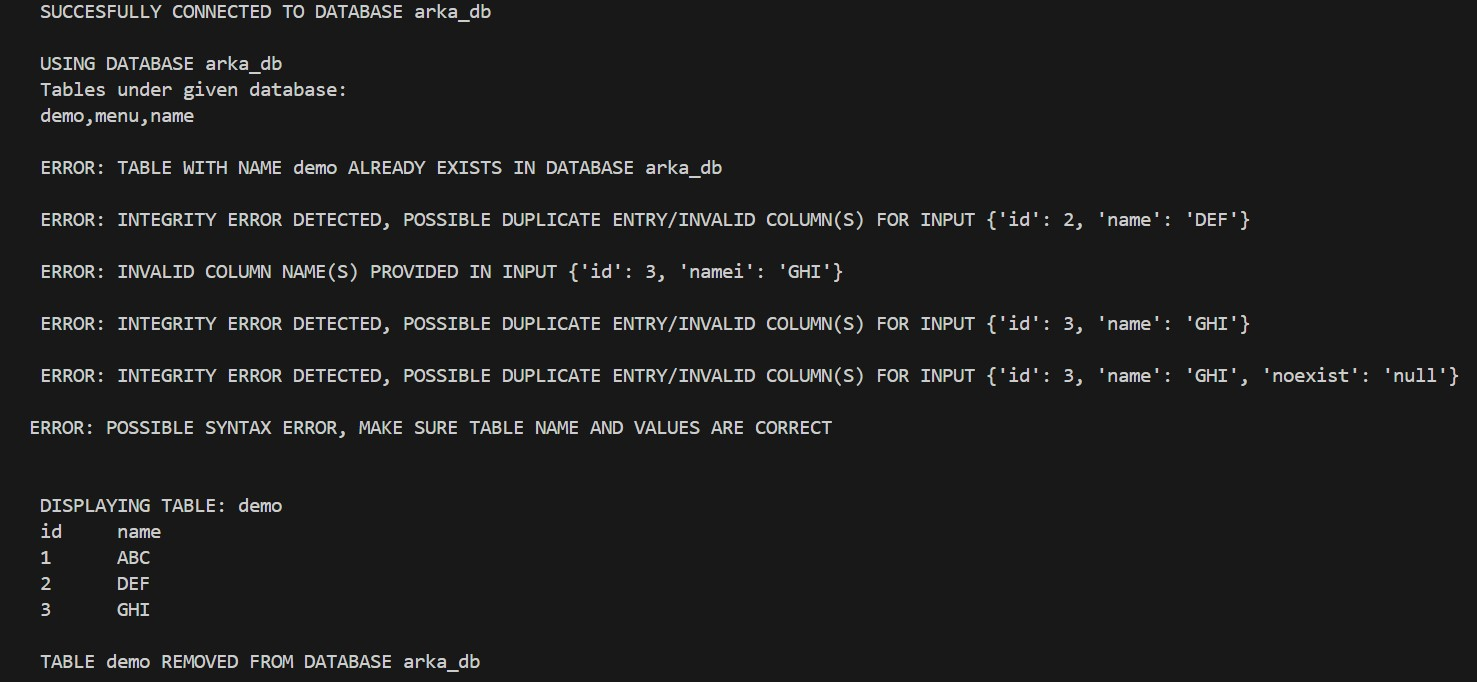
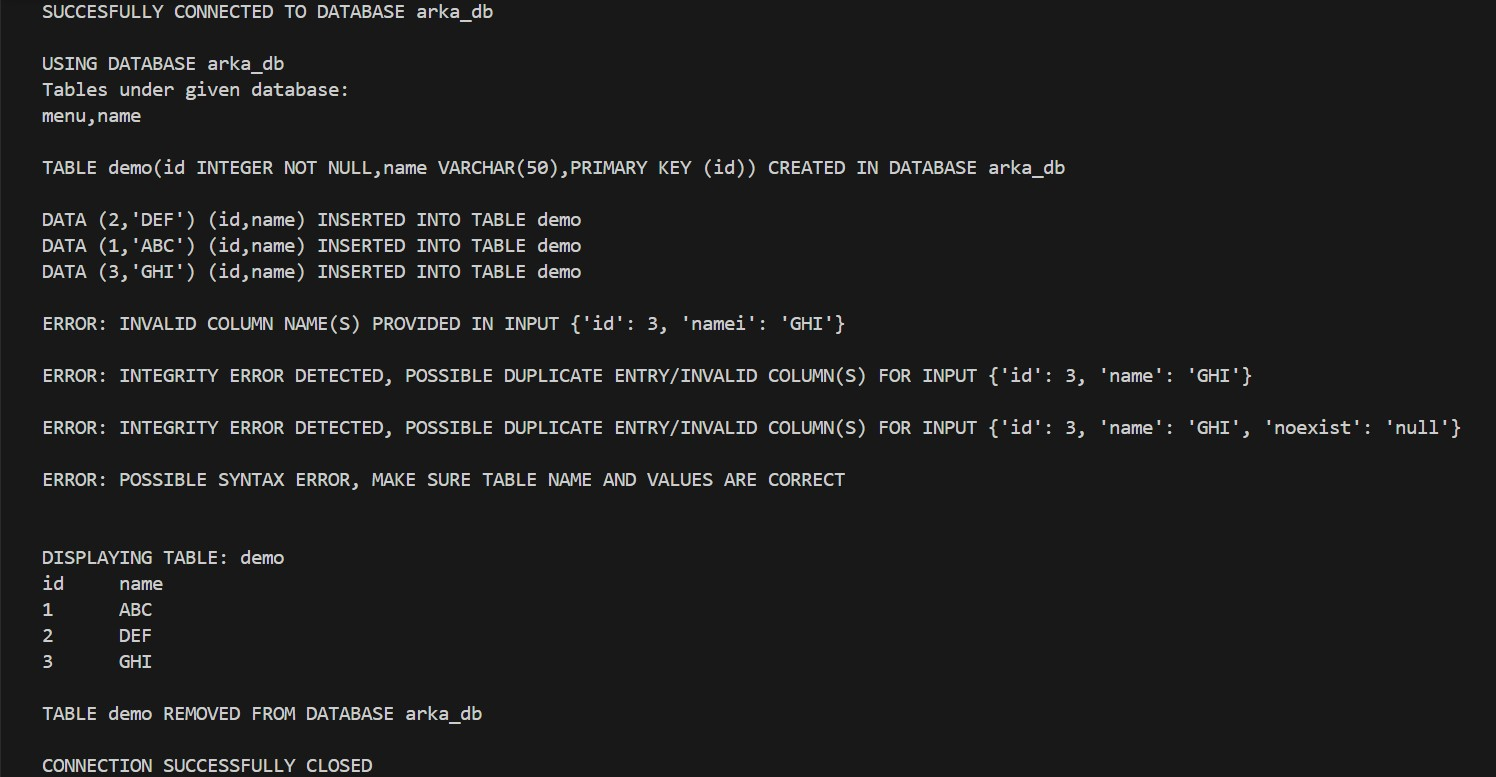
Added method to close connection, fixed comments and prints

diff --git a/main.py b/main.py
@@ -3,52 +3,59 @@
 # in a new config.ini file or follow instructions below for hard-coded initials
 
 import mysql.connector
-# import configparser
+import configparser
 
 class Pseudo:
-    """Class for executing basic CRUD Operations"""
 
     # Use this constructor for config file input, remove if not to be used
-    # def __init__(self):
-    #     """Class for executing basic CRUD operations"""
+    def __init__(self):
+        """
+        Class for executing basic CRUD Operations by initializing a database 
+        connection and cursor for CRUD operations
+        """
 
-    #     config = configparser.ConfigParser()
-    #     config.read("config.ini")
+        config = configparser.ConfigParser()
+        config.read("config.ini")
 
-    #     self.database = config["mysql"]["database"]
+        self.database = config["mysql"]["database"]
 
-    #     try:
-    #         self.connection = mysql.connector.connect(
-    #             host = config["mysql"]["host"],
-    #             port = config["mysql"]["port"],
-    #             user = config["mysql"]["user"],
-    #             password = config["mysql"]["password"],
-    #             database = self.database
-    #         )
-
-    #         print(f" SUCCESFULLY CONNECTED TO DATABASE {self.database}\n")
-    #         self.cursor = self.connection.cursor()
-
-    #     except mysql.connector.errors.ProgrammingError:
-    #         raise Exception("ERROR: INVALID PARAMETERS PROVIDED, Make Sure correct parameters are given")
-
-    # # Use this constructor for hard-coded intials, remove if not to be used
-    def __init__(self,host,port,usr,pswd,db):
-        self.database = db      
-        
         try:
             self.connection = mysql.connector.connect(
-                host = host,
-                port = port,
-                user = usr,
-                password = pswd,
+                host = config["mysql"]["host"],
+                port = config["mysql"]["port"],
+                user = config["mysql"]["user"],
+                password = config["mysql"]["password"],
                 database = self.database
             )
 
             print(f" SUCCESFULLY CONNECTED TO DATABASE {self.database}\n")
             self.cursor = self.connection.cursor()
+
         except mysql.connector.errors.ProgrammingError:
             raise Exception("ERROR: INVALID PARAMETERS PROVIDED, Make Sure correct parameters are given")
+
+    # # # Use this constructor for hard-coded intials, remove if not to be used
+    # def __init__(self,host: str,port: int,usr: str,pswd: str,db: str):
+    #     """
+    #     Class for executing basic CRUD Operations by
+    #     initializing a database connection and cursor for CRUD operations
+    #     """
+
+    #     self.database = db      
+        
+    #     try:
+    #         self.connection = mysql.connector.connect(
+    #             host = host,
+    #             port = port,
+    #             user = usr,
+    #             password = pswd,
+    #             database = self.database
+    #         )
+
+    #         print(f" SUCCESFULLY CONNECTED TO DATABASE {self.database}\n")
+    #         self.cursor = self.connection.cursor()
+    #     except mysql.connector.errors.ProgrammingError:
+    #         raise Exception("ERROR: INVALID PARAMETERS PROVIDED, Make Sure correct parameters are given")
 
     def show_table_names(self):
         """Get all table names in given database"""
@@ -142,7 +149,7 @@ class Pseudo:
         except KeyError:
             print(f" ERROR: INVALID COLUMN NAME(S) PROVIDED IN INPUT {value}")
         except mysql.connector.errors.ProgrammingError:
-            print(f"ERROR: POSSIBLE SYNTAX ERROR, MAKE SURE TABLE NAME AND VALUES ARE CORRECT")
+            print(f" ERROR: POSSIBLE SYNTAX ERROR, MAKE SURE TABLE NAME AND VALUES ARE CORRECT")
         print()
 
     def get(self, table: str):
@@ -161,11 +168,6 @@ class Pseudo:
 
         print()
 
-    # NOTE: FACING REFERENCE ERROR HERE
-    # def __del__(self):
-    #     self.cursor.close()
-    #     self.connection.close()
-
     def custom_query(self,query: str):
         """Runs SQL query"""
         try:
@@ -175,12 +177,19 @@ class Pseudo:
         except:
             print("ERROR: INVALID QUERY")
 
+    def close(self):
+        """Terminates Database Connection"""
+
+        if self.cursor: self.cursor.close();
+        if self.connection: self.connection.close();
+        print(" CONNECTION SUCCESSFULLY CLOSED")
+
 if __name__ == "__main__":
     #Creating a new object, which sets a connection to a specified database
 
     #USE THIS IF USING HARD-CODED CREDENTIALS
     #Replace following with valid credentials
-    host,port,user,password,database = "localhost",3306,"root","Password@123","arka_db" 
+    host,port,user,password,database = "localhost",3306,"root","123","arka_db" 
     tester = Pseudo(host,port,user,password,database)
     
     #USE THIS IF USING CONFIG FILE
@@ -211,3 +220,6 @@ if __name__ == "__main__":
 
     #Dropping Table
     tester.drop('demo')
+
+    #Closing Connection
+    tester.close()
